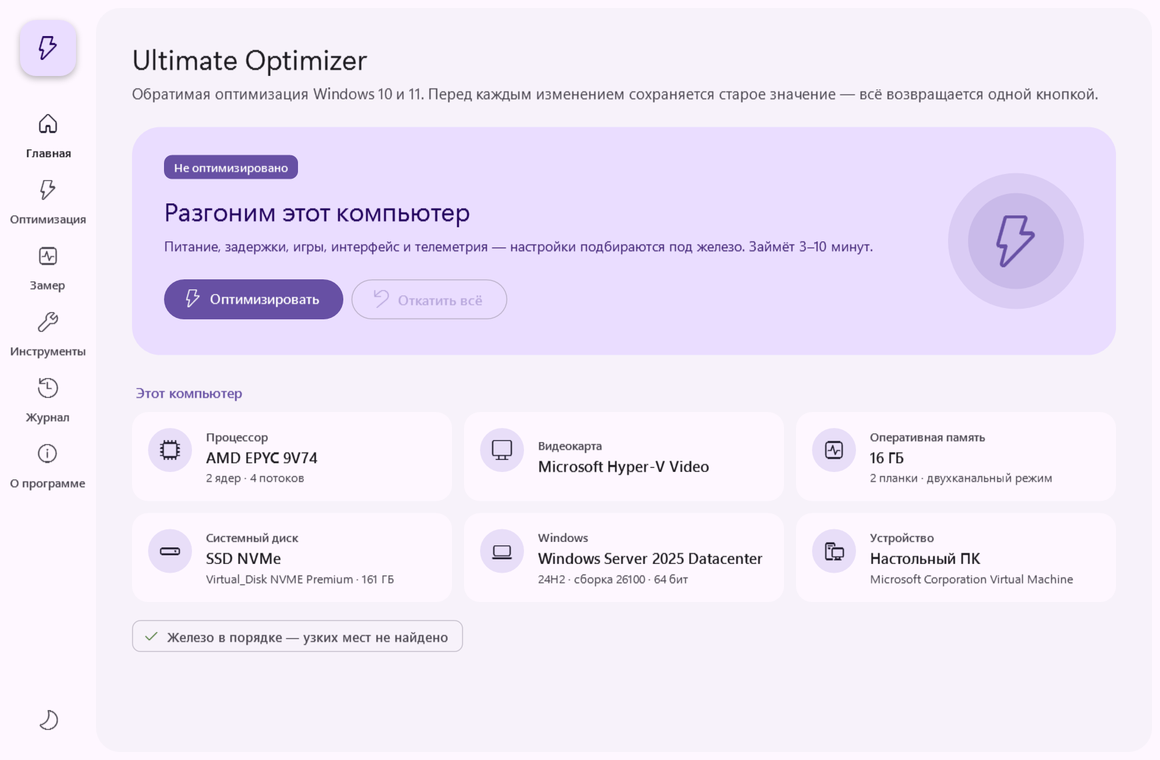
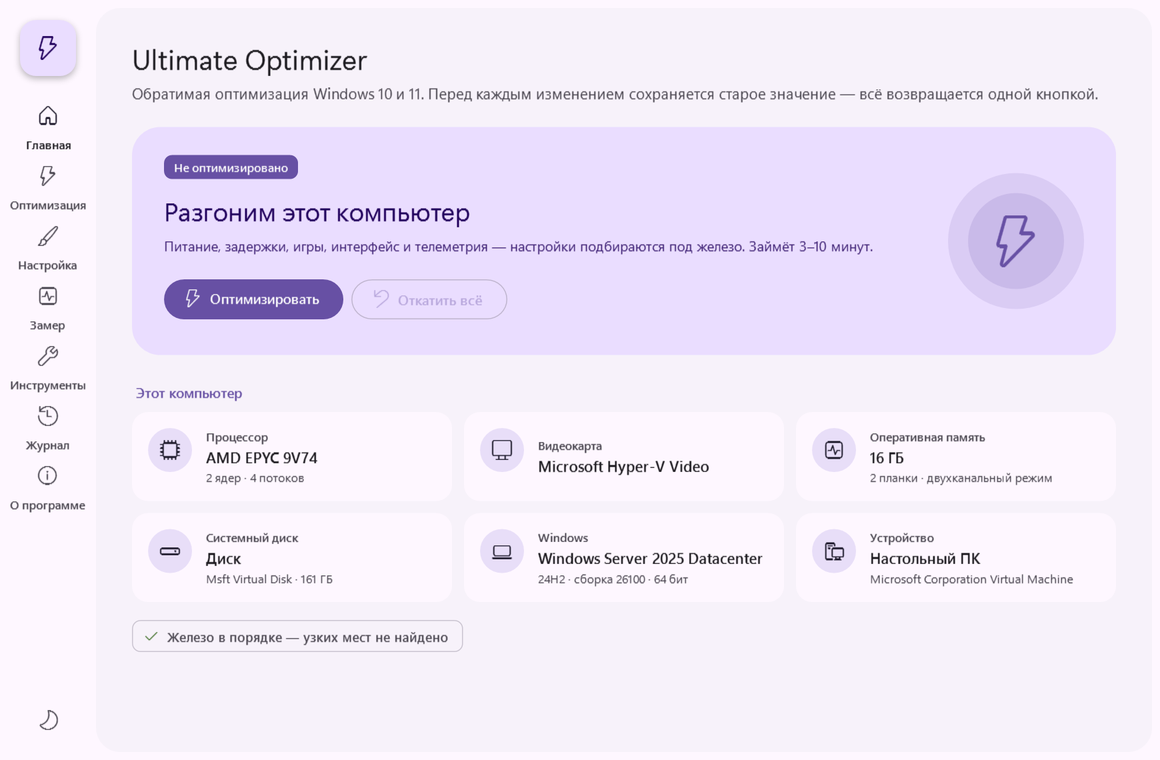
v3.5.0: optimizerDuck tweaks built in, Windows settings page, docs
Claude-Session: https://claude.ai/code/session_01XetMs98Q2KW8WsjPMmJwNi

Changed region(s): [[0.0, 0.1513, 0.0931, 0.6961], [0.1552, 0.7263, 0.3414, 0.7868]]

diff --git a/README.md b/README.md
@@ -32,22 +32,25 @@
 | Тёмная тема | Светлая тема |
 |---|---|
 | <img src="docs/screenshots/optimize-dark.png" alt="Оптимизация"> | <img src="docs/screenshots/optimize-light.png" alt="Оптимизация"> |
-| **Оптимизация**: профили и переключатель у каждого из 47 твиков | |
+| **Оптимизация**: профили и переключатель у каждого из 65 твиков | |
 | <img src="docs/screenshots/bench-dark.png" alt="Замер"> | <img src="docs/screenshots/bench-light.png" alt="Замер"> |
 | **Замер «до» и «после»**: 8 показателей системы | |
+| <img src="docs/screenshots/customize-dark.png" alt="Настройка Windows"> | <img src="docs/screenshots/customize-light.png" alt="Настройка Windows"> |
+| **Настройка Windows**: ~40 переключателей, применяются сразу | |
 | <img src="docs/screenshots/log-dark.png" alt="Журнал"> | <img src="docs/screenshots/done-light.png" alt="Готово"> |
 | **Журнал**: живой вывод скриптов с прогрессом | В конце предлагается перезагрузка |
 | <img src="docs/screenshots/tools-dark.png" alt="Инструменты"> | <img src="docs/screenshots/tools-light.png" alt="Инструменты"> |
-| **Инструменты**: починка Windows, отчёт о ПК, optimizerDuck | |
+| **Инструменты**: починка Windows, отчёт о ПК, очистка | |
 | <img src="docs/screenshots/dialog-dark.png" alt="Диалог"> | <img src="docs/screenshots/dialog-light.png" alt="Диалог"> |
 | Каждое действие подтверждается | |
 | <img src="docs/screenshots/update-dark.png" alt="Обновление"> | <img src="docs/screenshots/about-light.png" alt="О программе"> |
 | **Автообновление**: баннер новой версии | Тема и настройки обновлений |
 
 - **Главная**: железо ПК, статус оптимизации, подсказки по апгрейду.
-- **Оптимизация**: профили «Игры», «Ноутбук», «Работа и учёба», «Слабый ПК» и 47 твиков в 9 группах. У каждого твика есть описание и свой переключатель, выбор запоминается.
+- **Оптимизация**: профили «Игры», «Ноутбук», «Работа и учёба», «Слабый ПК» и 65 твиков в 9 группах. У каждого твика есть описание и свой переключатель, выбор запоминается.
 - **Замер**: показатели системы «до» и «после» оптимизации.
-- **Инструменты**: починка Windows (DISM + SFC, сброс сети, точки восстановления), отчёт о ПК, optimizerDuck, папки с бэкапом и логами.
+- **Настройка Windows**: ~40 переключателей, применяются сразу.
+- **Инструменты**: починка Windows (DISM + SFC, сброс сети, точки восстановления), отчёт о ПК, очистка, папки с бэкапом и логами.
 - **Журнал**: живой вывод скриптов с прогрессом. Журнал можно скопировать.
 - **О программе**: тема, автообновление, ссылки.
 
@@ -119,11 +122,11 @@
 |---|---|
 | Питание | Свой план «Ultimate Optimizer»: без парковки ядер, агрессивный турбобуст, без засыпания USB/NVMe/PCIe. Энергосбережение сетевой карты и быстрый запуск выключены. |
 | Процессор и задержки | `Win32PrioritySeparation = 38`, MMCSS = 10, приоритет игр, dynamic tick выключен, FTH выключен, группировка svchost, NTFS без записи времени доступа |
-| Игры | HAGS, игровой режим, Game DVR выключен, MSI-режим прерываний для видеокарты, ULPS у AMD выключен |
-| Интерфейс | Быстрые визуальные эффекты, меню без задержек, без акселерации мыши, без фоновых приложений |
-| Телеметрия | DiagTrack, отчёты об ошибках, CEIP, PCA, реклама, Copilot, Recall, виджеты, задачи сбора данных |
+| Игры | HAGS, игровой режим, Game DVR выключен, MSI-режим прерываний, настройки питания драйверов NVIDIA/AMD/Intel, USB без энергосбережения |
+| Интерфейс и ввод | Быстрые визуальные эффекты, меню без задержек, без акселерации мыши, быстрый повтор клавиш, без залипания клавиш, чистый «Пуск», без фоновых приложений |
+| Телеметрия | DiagTrack, AutoLogger, отчёты об ошибках, CEIP, PCA, реклама и «потребительские функции», Copilot, Recall, Click to Do, Bing в поиске, виджеты, задачи сбора данных; по желанию геолокация и «Поиск устройства» |
 | Приложения | Удаляет предустановленный мусор (Teams, Clipchamp, Bing-приложения, Solitaire, TikTok, Candy Crush…). **Оставляет** Store, Xbox / Game Bar, Фото, Калькулятор, Камеру, Ножницы, Блокнот. |
-| Программы (winget) | Visual C++ 2015+, DirectX, HWiNFO, Process Lasso, Autoruns, CrystalDiskInfo, 7-Zip, MSI Afterburner, G-Helper (ASUS) / Legion Toolkit (Lenovo), NVIDIA Profile Inspector, **optimizerDuck** |
+| Программы (winget) | Visual C++ 2015+, DirectX, HWiNFO, Process Lasso, Autoruns, CrystalDiskInfo, 7-Zip, MSI Afterburner, G-Helper (ASUS) / Legion Toolkit (Lenovo), NVIDIA Profile Inspector |
 | Профиль NVIDIA | Максимальная производительность, Low Latency On, V-Sync Off, Shader Cache без ограничения, Ansel Off |
 
 Спросит отдельно (по умолчанию **нет**):
@@ -132,21 +135,33 @@
 
 Что из Atlas сознательно **не** взято, потому что это ломает ноутбуки или сеть: отключение устройств (SMBus и т.п.), NetBT и общего доступа к файлам, CFG (ломает античиты вроде Vanguard), автообновлений Windows.
 
-## optimizerDuck
+## Настройка Windows
 
-Пункт меню 6 или `5-Get-OptimizerDuck.bat` скачивает последний релиз
-[optimizerDuck](https://github.com/itsfatduck/optimizerDuck): open-source оптимизатор с графическим интерфейсом от itsfatduck, лицензия GPL-3.0.
+Отдельный экран с ~40 переключателями, которые применяются сразу и показывают текущее состояние системы. Вернуть настройку — тем же переключателем.
 
-- Сборка выбирается под процессор: x64 или ARM64.
-- SHA-256 сверяется с контрольной суммой, которую публикует GitHub.
-- Файл сохраняется в `C:\Tools\optimizerDuck`, старые версии удаляются.
-- В этот репозиторий optimizerDuck **не** входит, файл всегда скачивается с официальной страницы релизов.
+<p align="center"><img src="docs/screenshots/customize-dark.png" width="760" alt="Настройка Windows"></p>
 
-```powershell
-.\Get-OptimizerDuck.ps1            # скачать и запустить
-.\Get-OptimizerDuck.ps1 -NoLaunch  # только скачать
-.\Get-OptimizerDuck.ps1 -Force     # скачать заново
-```
+| Группа | Настройки |
+|---|---|
+| Рабочий стол | Значки «Этот компьютер», «Корзина», папка пользователя, «Сеть», «Панель управления», показ значков |
+| Панель задач и «Пуск» | Значки по центру, группировка, поиск, «Представление задач», виджеты, «Завершить задачу» по правому клику, клик открывает последнее окно, секунды в часах, Bing в поиске |
+| Проводник | Расширения файлов, скрытые файлы, открывать «Этот компьютер», классическое контекстное меню, флажки, компактный вид, реклама OneDrive |
+| Система | Тёмная тема, уведомления, советы Windows, журнал буфера обмена, встряхивание окон, макеты прикрепления, NumLock при загрузке, подробные сообщения при входе, длинные пути, режим разработчика, часы в UTC, без Smart Name Resolution |
+| Игры | Игровой режим, Xbox Game Bar, фоновая запись, оптимизация во весь экран, HAGS, акселерация мыши, индикатор DLSS (только NVIDIA) |
+
+Настройки, которых нет в твоей системе, не показываются: например, пункты только для Windows 11 или для NVIDIA. Для изменений панели задач и Проводника есть кнопка «Перезапустить Проводник».
+
+## Откуда твики
+
+- **[AtlasOS](https://atlasos.net)** v0.5.0 — основа: питание, планировщик, телеметрия, службы, приложения.
+- **[optimizerDuck](https://github.com/itsfatduck/optimizerDuck)** (GPL-3.0) — идеи твиков:
+  - питание драйверов NVIDIA, AMD и Intel, энергосбережение USB, MMCSS без «ленивого» режима;
+  - клавиатура и залипание клавиш, чистый «Пуск», локальный поиск;
+  - AutoLogger, геолокация, «Поиск устройства», долгая пауза обновлений, расширенная приватность;
+  - набор настроек экрана «Настройка Windows».
+  
+  Код optimizerDuck не копировался: всё реализовано заново в `Ultimate-Optimizer.ps1` и `launcher/` и проходит через общий бэкап и откат. Сам optimizerDuck больше не скачивается.
+- **[Chris Titus WinUtil](https://github.com/ChrisTitusTech/winutil)** (MIT) — список служб для рискованного пункта «Службы в ручной запуск».
 
 ## Запуск скриптов вручную
 
@@ -156,7 +171,6 @@ Set-ExecutionPolicy -Scope Process Bypass -Force
 .\Ultimate-Optimizer.ps1            # с вопросами
 .\Ultimate-Optimizer.ps1 -Yes       # без вопросов (рискованное не трогает)
 .\Ultimate-Optimizer.ps1 -NoApps    # без скачивания программ
-.\Ultimate-Optimizer.ps1 -NoDuck    # без optimizerDuck
 .\Ultimate-Optimizer.ps1 -Yes -Only cpu.mmcss,ui.mouse   # только выбранные твики
 .\Ultimate-Optimizer.ps1 -Undo      # откатить всё
 ```
@@ -214,4 +228,4 @@ build.ps1    сборка exe + zip + SHA256SUMS
 
 Используй на свой риск. Все изменения обратимы, но перед запуском всё равно стоит сохранить важные данные.
 
-[MIT](LICENSE) · optimizerDuck распространяется под собственной лицензией GPL-3.0.
+[MIT](LICENSE)

diff --git a/CHANGELOG.md b/CHANGELOG.md
@@ -1,5 +1,20 @@
 # Changelog
 
+## v3.5.0
+
+### Новое
+- **Твики optimizerDuck теперь встроены.** Само приложение optimizerDuck больше не скачивается. Твиков стало 65 вместо 47:
+  - USB-устройства без энергосбережения (с точным откатом), MMCSS без «ленивого» режима;
+  - NVIDIA: без динамических и асинхронных P-state; AMD: без ASPM, power gating и clock gating; Intel: без асинхронных flip и адаптивного V-Sync;
+  - быстрый повтор клавиш, без залипания клавиш, чистое меню «Пуск»;
+  - поиск без Bing и Cortana, без фоновых логгеров AutoLogger, по желанию без геолокации и «Поиска устройства»;
+  - долгая пауза обновлений, WebDAV без лимита 50 МБ;
+  - рискованный пункт «Службы в ручной запуск» (список WinUtil), по умолчанию выключен;
+  - телеметрия, реклама, ИИ (Recall, Click to Do), виджеты и история действий закрыты полнее.
+- **Экран «Настройка Windows».** Около 40 переключателей, которые применяются сразу и показывают текущее состояние: значки рабочего стола, панель задач, Проводник (расширения, скрытые файлы, классическое меню), тёмная тема, уведомления, журнал буфера обмена, NumLock, длинные пути, режим разработчика, Game Bar, оптимизация во весь экран, HAGS, акселерация мыши, индикатор DLSS. Есть кнопка «Перезапустить Проводник».
+- **«Инструменты» → «Очистка»** вместо карточки optimizerDuck: временные файлы, компоненты обновлений, TRIM и DNS одной кнопкой, без создания точки восстановления.
+- В `Ultimate-Optimizer.ps1` добавлен ключ `-NoRestorePoint`. Ключ `-NoDuck` по-прежнему принимается, но больше ничего не делает.
+
 ## v3.4.0
 
 ### Новое
